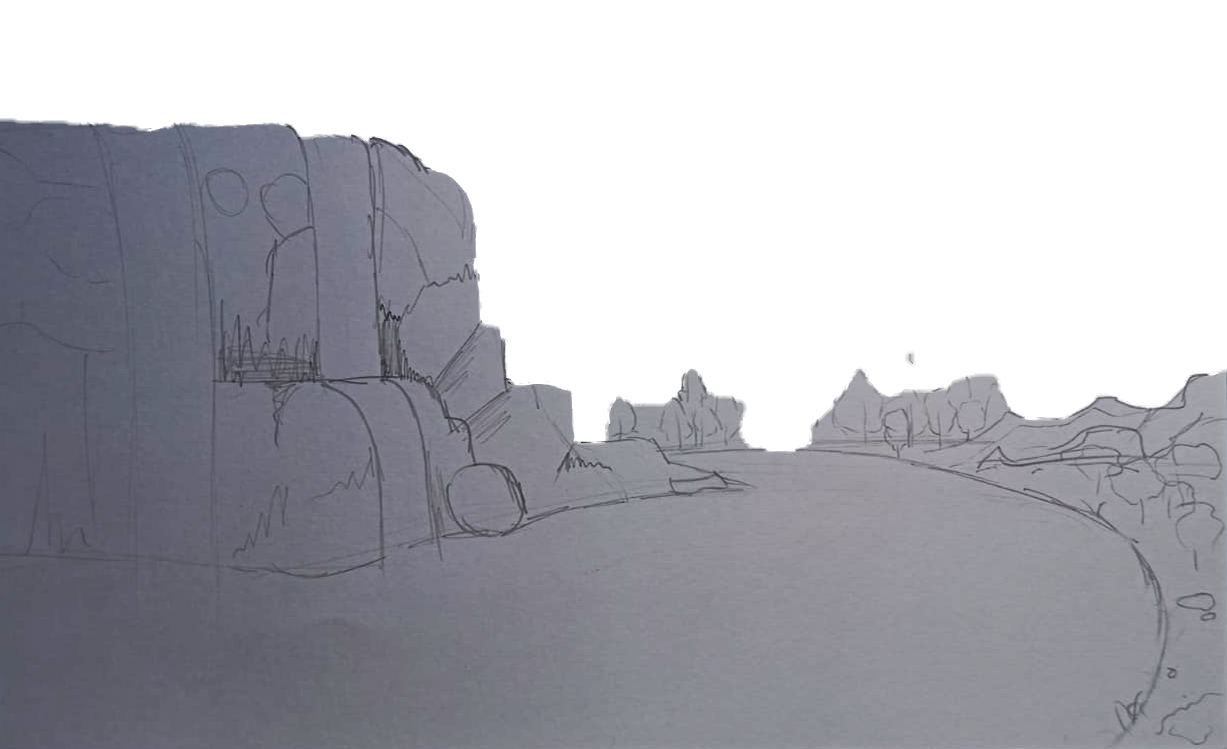
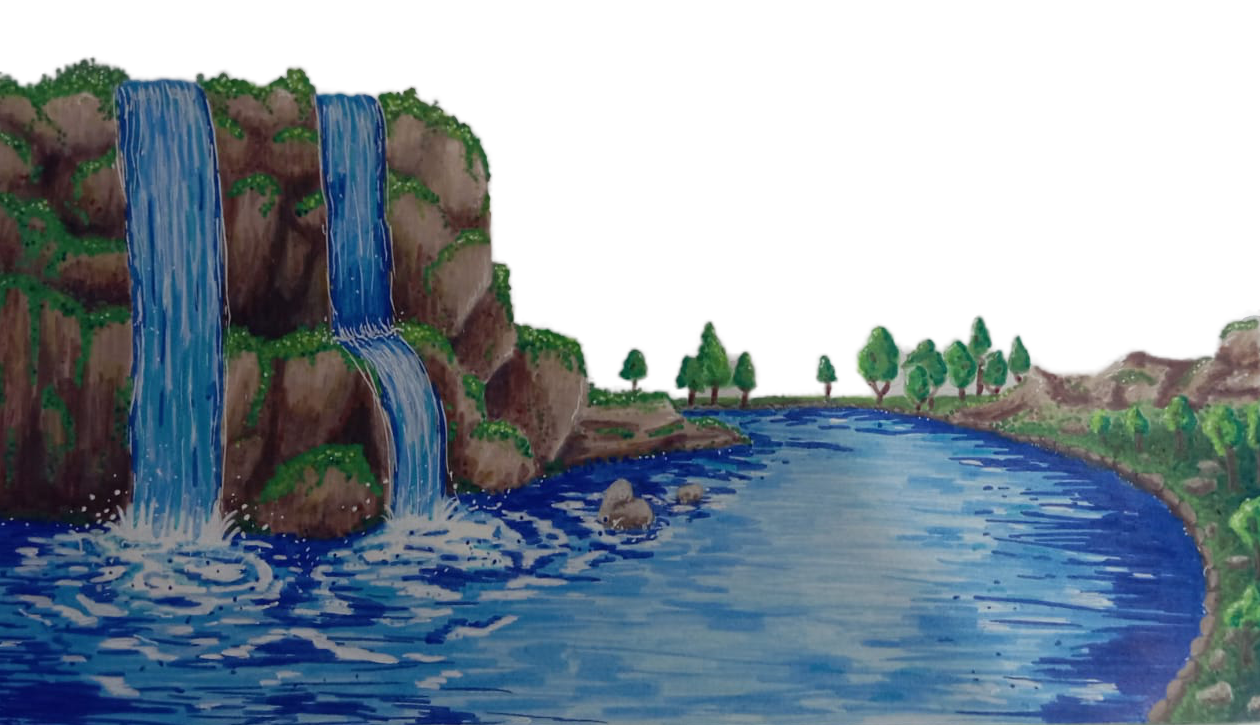
background: leaves

diff --git a/src/public/scripts/gsap_animations/gsap_script.js b/src/public/scripts/gsap_animations/gsap_script.js
@@ -262,6 +262,18 @@ gsap.to("#tree", {
     }
 });
 
+gsap.to("#leaves", {
+    y: -1000,
+    ease: "power1.out",
+
+    scrollTrigger:{
+        trigger:"#clock",
+        start:"center top",
+        end:"+=600",
+        scrub: 1
+    }
+});
+
 // Elements
 
 let tl_clock = gsap.timeline();

diff --git a/src/public/css/gsap_background_style.css b/src/public/css/gsap_background_style.css
@@ -47,6 +47,10 @@
     top: 590px;
 }
 
+#leaves{
+    top: 590px;
+}
+
 #fog3{
     top: 950px;
 }
